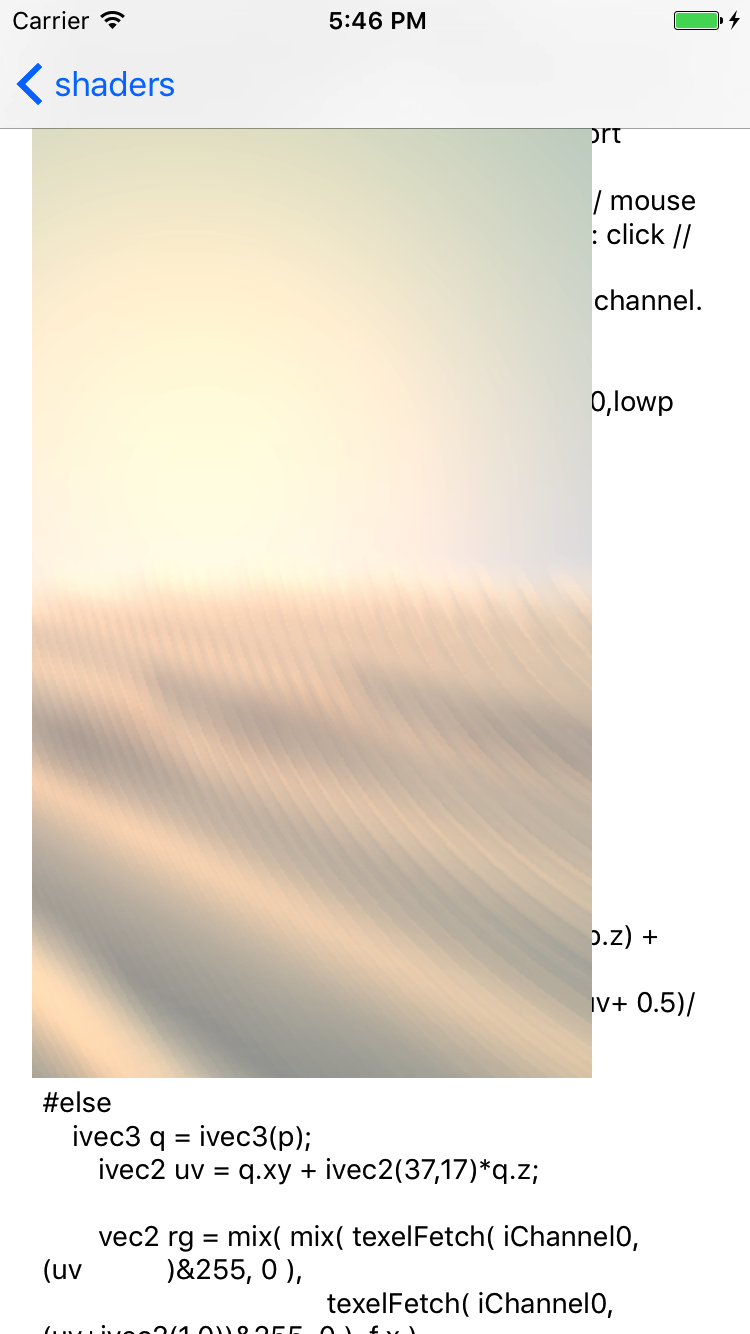
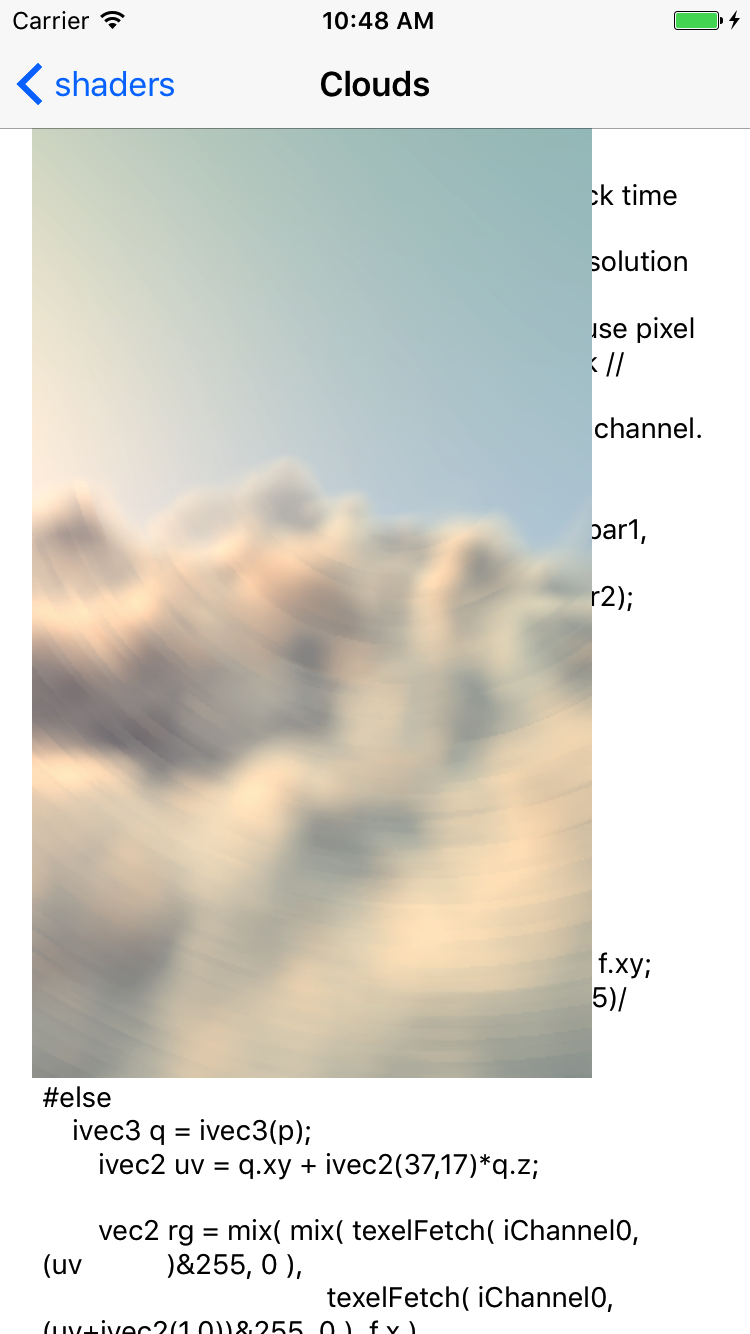
fixed CACurrentMediaTime

diff --git a/Experiments-iOS-OpenGL/OpenGLView.swift b/Experiments-iOS-OpenGL/OpenGLView.swift
@@ -33,7 +33,7 @@ class OpenGLView:UIView{
     eaglLayer:CAEAGLLayer!,
     context:EAGLContext!,
     colorRenderBuffer:GLuint = 1,
-    skipFrames = 0
+    glViewIsOpaque = true
     
     
     override class var layerClass: AnyClass {
@@ -41,10 +41,9 @@ class OpenGLView:UIView{
     }
     
     
-    func config(shaderName: String,textureName:String?,skipFrames:Int) {
+    func config(shaderName: String,textureName:String?,isOpaque:Bool = true) {
         self.textureName = textureName
-        self.skipFrames = skipFrames
-        self.skippedFrames = skipFrames
+        self.glViewIsOpaque = isOpaque
         backgroundColor = UIColor.clear
         setupLayer()
         setupContext()
@@ -59,7 +58,7 @@ class OpenGLView:UIView{
     
     private func setupLayer(){
         eaglLayer = layer as! CAEAGLLayer
-        eaglLayer.isOpaque = skipFrames != 0 //make transparent
+        eaglLayer.isOpaque = glViewIsOpaque
         backgroundColor = UIColor.clear
     }
     private func setupContext(){
@@ -95,14 +94,7 @@ class OpenGLView:UIView{
         link?.add(to: RunLoop.current, forMode: .defaultRunLoopMode)
     }
     
-    private var skippedFrames = 0
     private func render() {
-        if skippedFrames >= skipFrames{
-            skippedFrames = 0
-        } else {
-            skippedFrames += 1
-            return
-        }
         
         renderShaders()
         
@@ -231,8 +223,14 @@ class OpenGLView:UIView{
         glDrawElements(GLenum(GL_TRIANGLES), GLsizei(Indices.count/MemoryLayout.size(ofValue: Indices[0])), GLenum(GL_UNSIGNED_BYTE), nil)
     }
     private var resolutionDidNotSet = true
+    
+    
+    var startTime = CACurrentMediaTime()
     private func setVariablesToShaders(){
-        glUniform1f(iTimeSlot, GLfloat(CACurrentMediaTime()))
+        let currentTime = CACurrentMediaTime()
+        let mediaTime = Float((currentTime - startTime))
+        if mediaTime > 10000 {startTime = currentTime}
+        glUniform1f(iTimeSlot, mediaTime)
         if resolutionDidNotSet{
             glUniform3f(iResolution, GLfloat(frame.size.width), GLfloat(frame.size.height), 0)
             resolutionDidNotSet = false

diff --git a/Experiments-iOS-OpenGL/ShaderGLKitViewController.swift b/Experiments-iOS-OpenGL/ShaderGLKitViewController.swift
@@ -33,7 +33,7 @@ class ShaderGLKitViewController: GLKViewController {
         program = glCreateProgram()
         let
         vertShader = Shader(name: "SimpleVertex", type: GL_VERTEX_SHADER),
-        fragShader = Shader(name: "Veryfastproceduralocean", type: GL_FRAGMENT_SHADER)
+        fragShader = Shader(name: "Creation", type: GL_FRAGMENT_SHADER)
         
         //attach
         glAttachShader(program, vertShader.id)
@@ -82,10 +82,34 @@ class ShaderGLKitViewController: GLKViewController {
     }
     
     override func glkView(_ view: GLKView, drawIn rect: CGRect) {
-        glUniform1f(iTimeSlot, GLfloat(CACurrentMediaTime()))
-        glDrawElements(GLenum(GL_TRIANGLES), GLsizei(Indices.count/MemoryLayout.size(ofValue: Indices[0])), GLenum(GL_UNSIGNED_BYTE), nil)
+        render()
     }
     
+    var startTime = CACurrentMediaTime()
+    func render(){
+        let currentTime = CACurrentMediaTime()
+        let mediaTime = Float((currentTime - startTime))
+        if mediaTime > 10000 {startTime = currentTime}
+        glUniform1f(iTimeSlot, mediaTime)
+        glDrawElements(GLenum(GL_TRIANGLES), GLsizei(Indices.count/MemoryLayout.size(ofValue: Indices[0])), GLenum(GL_UNSIGNED_BYTE), nil)
+        printFPS()
+    }
+    
+    var
+    oldDate = Date(),
+    fps = 0
+    func printFPS(){
+        let
+        newDate = Date(),
+        dateDiff = newDate.timeIntervalSince(oldDate)
+        if dateDiff > 1{
+            oldDate = newDate
+            print(fps)
+            fps = 0
+        } else {
+            fps += 1
+        }
+    }
 }
 
 class Shader{

diff --git a/Experiments-iOS-OpenGL/ShaderViewController.swift b/Experiments-iOS-OpenGL/ShaderViewController.swift
@@ -16,16 +16,15 @@ class ShaderViewController: UIViewController {
     private var
     shaderName = "",
     textureName:String?,
-    skipFrames = 0
+    isOpaque = true
     func setup(shaderName:String){
         navigationItem.title = shaderName
         self.shaderName = shaderName
         switch shaderName {
         case "Clouds","TextureFragment":
             textureName = "RGBA_noize_med"
-            skipFrames = Int(30.0 * 0.3)
-        case "MengerSponge","Seascape","TheDriveHome":
-            skipFrames = Int(30.0 * 0.3)
+        case "SimpleFragment":
+            isOpaque = false
         default: break
         }
     }
@@ -39,7 +38,7 @@ class ShaderViewController: UIViewController {
         let shaderPath = Bundle.main.path(forResource: shaderFolder + shaderName, ofType: "glsl")!
         let ShaderString = try! String(contentsOfFile: shaderPath, encoding: .utf8)
         textField.text = ShaderString
-        glView.config(shaderName:shaderName,textureName:textureName, skipFrames: skipFrames)
+        glView.config(shaderName:shaderName,textureName:textureName, isOpaque: isOpaque)
     }
     
     
